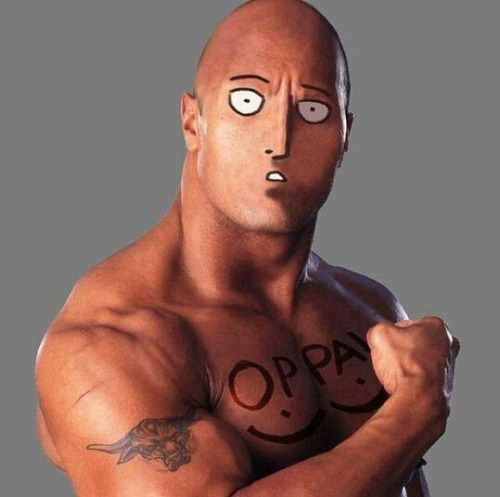
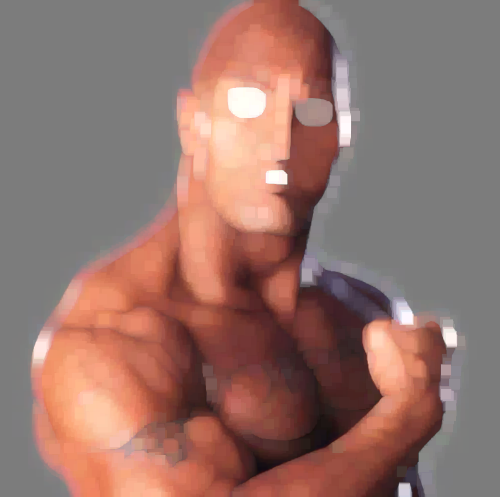
tkt

Changed region(s): [[0.06, 0.0, 0.93, 1.0], [0.21, 0.996, 0.24, 1.0]]

diff --git a/main.py b/main.py
@@ -1,24 +1,28 @@
 import cv2
+import os
+import numpy as np
 
-
-def gray(img):
+#separe dans notre logique dossier entree/sortie et fichier
+dossier_entrance = "images"
+dossier_exit = "images2.0"
+#1 ouvrir un dossier qui contient des images
+files = os.listdir(dossier_entrance)
+#2 pous chacune des images les ouvrir avec opencv, appliquer le filtre , enregistrer l'image dans le dossier de sortie
+for f in files:
+    print(f)
+    #TODO rajouter un if pour filtrer les extensions fichiers
+    img = cv2.imread(f"{dossier_entrance}/{f}")
+    kernel = np.ones((10, 10),np.uint(8))
     gray = cv2.cvtColor(img, cv2.COLOR_BGR2GRAY)
-    cv2.imshow('Original images', image1)
-    cv2.imshow('Gray images', gray)
-    
-    return gray
-
-
-
-image1 = cv2.imread("/Users/admin/python-imagefilter-groupe_7/images/armin.png")
-image2 = cv2.imread("/Users/admin/python-imagefilter-groupe_7/images/thesaitama.png")
+    flou = cv2.medianBlur(img, 15)
+    latter = cv2.dilate(img, kernel, 20)
+    cv2.imwrite(f"{dossier_exit}/{f}", latter)
 
 
 
 
 
 
-cv2.imwrite("/Users/admin/python-imagefilter-groupe_7/images2.0/armin.png", gray)
 
 
 
